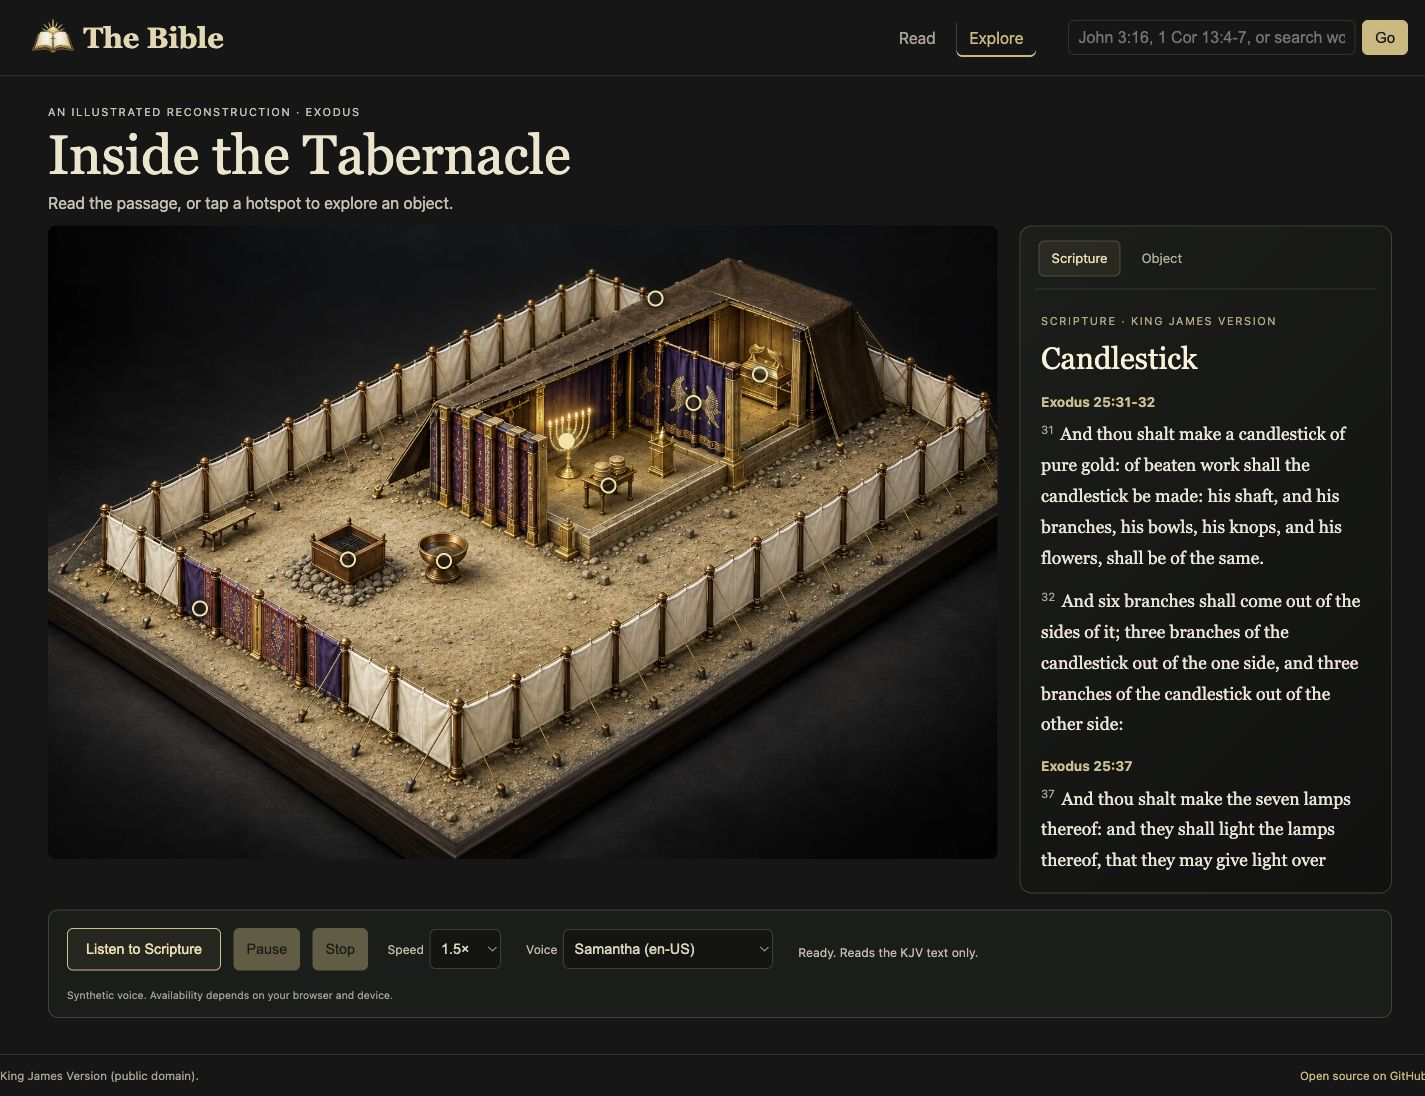
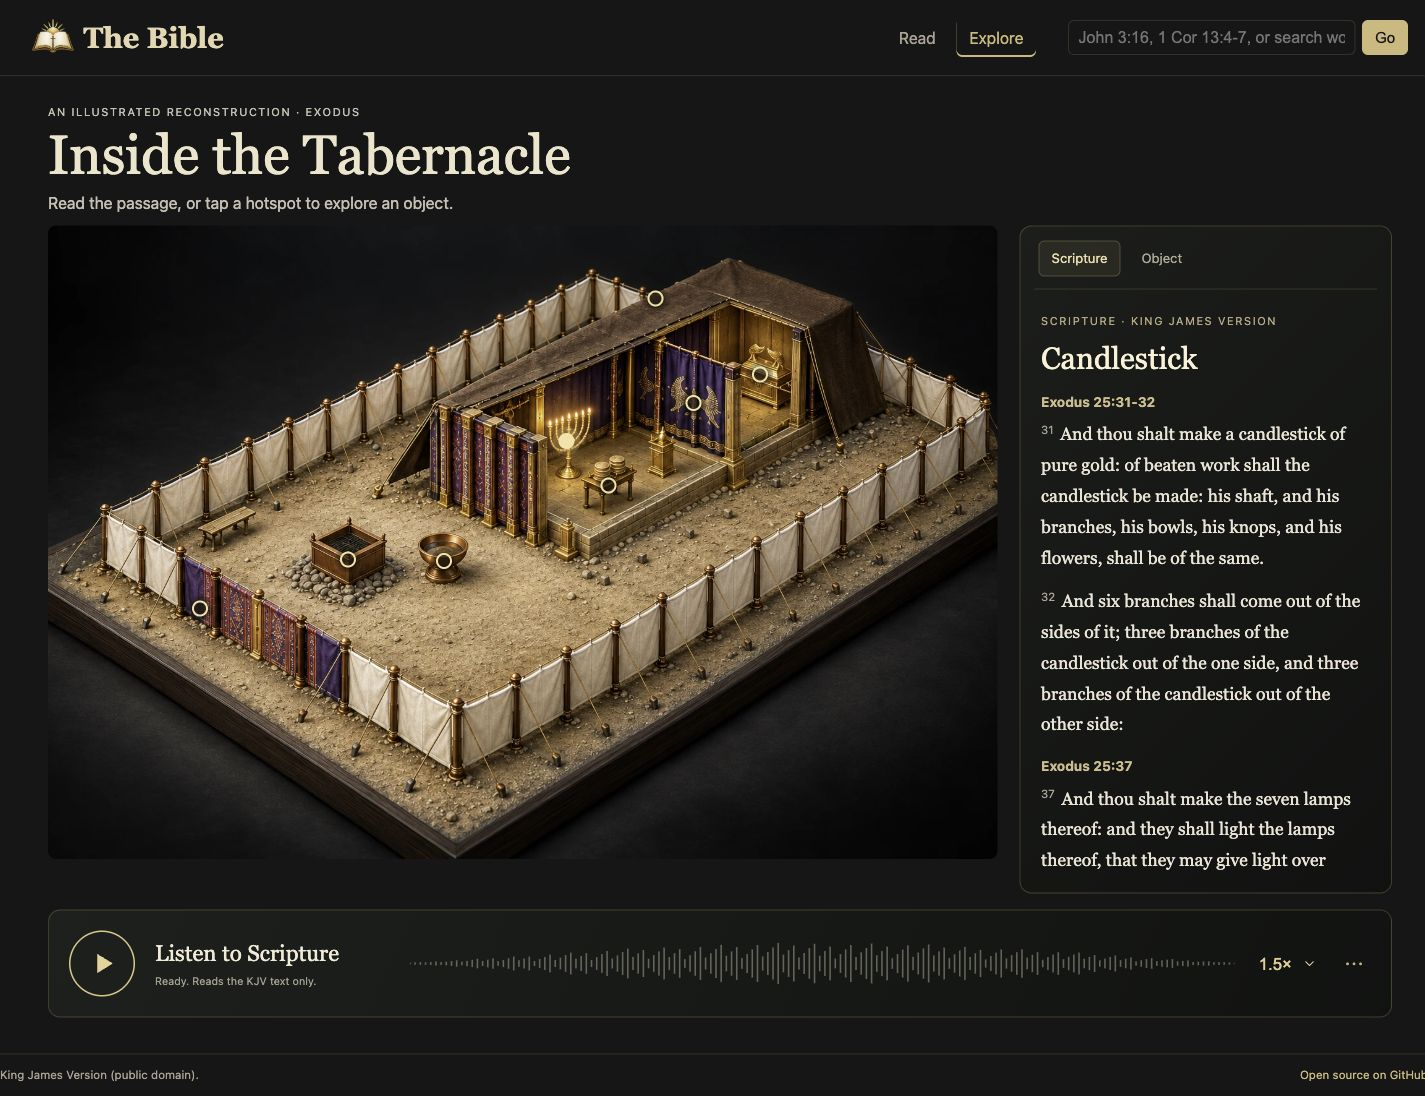
Match Explore read-aloud bar to circular waveform player concept

diff --git a/web/style.css b/web/style.css
@@ -118,3 +118,21 @@ body:has(.illustrated-explore) header .wrap{width:calc(100% - 64px)}
 @media(max-width:760px){.study-panel{display:flex;height:520px;min-height:0}.panel-title h2{font-size:1.7rem}.scripture-panel .scripture{font-size:1.08rem}.object-panel .object-preview{height:160px}.panel-view{padding:0 4px 6px}}
 
 .panel-view:focus-visible{outline:1px solid #d6b879;outline-offset:-1px;border-radius:3px}
+
+/* Concept-matched read-aloud bar; waveform is a decorative playback indicator. */
+.scripture-player{display:flex;align-items:center;gap:20px;width:100%;min-height:108px;padding:16px 20px;border:1px solid #b59a624d;border-radius:12px;background:linear-gradient(115deg,#1c201c,#101311);color:#f0dfbc}
+.scripture-player .player-toggle{display:grid;place-items:center;flex:0 0 66px;width:66px;height:66px;padding:0;border-radius:50%;border:1.5px solid #e5c785;background:transparent;color:#efd292;cursor:pointer}
+.player-toggle svg{width:29px;height:29px;fill:currentColor}.player-pause-icon{display:none}
+[data-audio-state=reading] .player-play-icon{display:none}[data-audio-state=reading] .player-pause-icon{display:block}
+.player-toggle:hover{background:#d5b57318;box-shadow:0 0 20px #d8af4e15}.player-toggle:focus-visible{outline:2px solid #ffe3a2;outline-offset:5px}.player-toggle:disabled{opacity:.5;cursor:default}
+.player-copy{flex:0 1 235px;min-width:0}.player-title{display:block;font:1.4rem/1.25 Georgia,'Times New Roman',serif;white-space:nowrap;color:#f5ead5}
+.scripture-player [data-audio-status]{font-size:.67rem;line-height:1.35;color:#a79f8e;margin:.4rem 0 0;min-height:1.35em}
+.player-wave{flex:1;min-width:50px;height:56px;overflow:hidden;opacity:.55}.player-wave svg{display:block;width:100%;height:100%;stroke:#aaa28e;stroke-width:1.5}
+[data-audio-state=reading] .player-wave{opacity:1}[data-audio-state=reading] .player-wave svg{stroke:#dfc182}
+.player-speed select{border:0;border-radius:4px;background:transparent;color:#ebcc8e;font-size:1.05rem;padding:7px 0;cursor:pointer;max-width:85px}
+.player-speed select option{background:#1b1e1b;color:#eee5d5}
+.player-options{position:relative;flex:none}.player-options summary{list-style:none;cursor:pointer;color:#c8ae78;font-size:1.3rem;padding:7px;border-radius:4px}.player-options summary::-webkit-details-marker{display:none}.player-options summary:focus-visible{outline:1px solid #e5c785}
+.player-settings{position:absolute;z-index:5;right:0;bottom:calc(100% + 15px);width:270px;max-width:calc(100vw - 60px);padding:16px;background:#1c201b;border:1px solid #b59a6277;border-radius:8px;box-shadow:0 8px 30px #0008;font-size:.85rem}
+.player-settings label{display:flex;flex-direction:column;gap:6px}.player-settings select{width:100%;padding:8px;background:#101310;color:#e7d5ae;border:1px solid #b59a6255;border-radius:5px}.player-settings button{margin:12px 0;background:transparent;color:#e7d5ae;border:1px solid #b59a6266}.player-settings small{display:block;color:#aaa18e;line-height:1.4}.player-settings button:disabled{opacity:.4;cursor:default}
+@media(max-width:760px){.scripture-player{gap:12px;min-height:98px;padding:14px 12px}.scripture-player .player-toggle{width:48px;height:48px;flex-basis:48px}.player-toggle svg{width:22px;height:22px}.player-copy{flex:1;min-width:0}.player-title{font-size:1.05rem;white-space:normal}.player-wave{display:none}.player-speed select{font-size:.85rem;max-width:65px}.player-options summary{padding:3px}.scripture-player [data-audio-status]{font-size:.63rem}}
+@media(max-width:760px){.scripture-player{gap:8px}.player-title{font-size:1rem}}

diff --git a/web/experience.js b/web/experience.js
@@ -12,6 +12,7 @@ export function initExperience(root = document) {
   const controls = root.querySelector('[data-read-aloud]');
   let stop = () => {};
   if (controls) {
+    const compact = controls.hasAttribute('data-audio-compact');
     const synth = window.speechSynthesis;
     const play = controls.querySelector('[data-audio-action="play"]');
     const pause = controls.querySelector('[data-audio-action="pause"]');
@@ -29,10 +30,16 @@ export function initExperience(root = document) {
     const setState = (state, message) => {
       controls.dataset.audioState = state;
       status.textContent = message;
-      pause.disabled = !['reading', 'paused'].includes(state);
+      if (pause) pause.disabled = !['reading', 'paused'].includes(state);
       stopButton.disabled = !['reading', 'paused', 'starting'].includes(state);
-      play.textContent = state === 'paused' ? 'Resume' : 'Listen to Scripture';
-      pause.textContent = state === 'paused' ? 'Paused' : 'Pause';
+      if (compact) {
+        play.setAttribute('aria-label', state === 'reading' ? 'Pause Scripture' : state === 'paused' ? 'Resume Scripture' : 'Listen to Scripture');
+        play.disabled = state === 'starting' || state === 'unavailable';
+        controls.querySelector('.player-title').textContent = state === 'paused' ? 'Scripture paused' : state === 'reading' ? 'Reading Scripture' : 'Listen to Scripture';
+      } else {
+        play.textContent = state === 'paused' ? 'Resume' : 'Listen to Scripture';
+        pause.textContent = state === 'paused' ? 'Paused' : 'Pause';
+      }
     };
     const clearHighlight = () => nodes.forEach(node => node.classList.remove('is-speaking'));
     stop = (message = 'Stopped.') => {
@@ -109,6 +116,11 @@ export function initExperience(root = document) {
         synth.speak(utterance);
       };
       on(play, 'click', () => {
+        if (compact && controls.dataset.audioState === 'reading') {
+          synth.pause();
+          if (synth.paused) setState('paused', 'Paused. Press Resume to continue.');
+          return;
+        }
         if (controls.dataset.audioState === 'paused' && current) {
           synth.resume();
           if (!synth.paused) setState('reading', `Reading verse ${nodes[index].dataset.verse || index + 1} · ${index + 1} of ${verses.length}.`);

diff --git a/src/tabernacle.rs b/src/tabernacle.rs
@@ -128,6 +128,28 @@ pub(super) fn listen_controls(reference: &str) -> String {
     )
 }
 
+fn scene_listen_controls(reference: &str) -> String {
+    // Decorative waveform silhouette, not sampled audio or a seek timeline.
+    let mut wave = String::new();
+    for i in 0..160 {
+        let x = i as f64 / 159.0;
+        let envelope = (std::f64::consts::PI * x).sin().powf(1.2);
+        let texture = ((i * 37 + 11) % 29) as f64 / 29.0;
+        let height = 2.0 + envelope * (9.0 + texture * 38.0);
+        wave.push_str(&format!(
+            "<line x1=\"{}\" x2=\"{}\" y1=\"{:.1}\" y2=\"{:.1}\"/>",
+            i * 5,
+            i * 5,
+            32.0 - height / 2.0,
+            32.0 + height / 2.0
+        ));
+    }
+    format!(
+        r#"<div class="scripture-player" data-read-aloud data-audio-compact data-reference="{}"><button class="player-toggle" type="button" data-audio-action="play" aria-label="Listen to Scripture"><svg viewBox="0 0 24 24" aria-hidden="true"><path class="player-play-icon" d="M8 4 21 12 8 20Z"/><path class="player-pause-icon" d="M7 5h4v14H7zm7 0h4v14h-4z"/></svg></button><div class="player-copy"><span class="player-title">Listen to Scripture</span><span data-audio-status role="status" aria-live="polite">Ready. Reads the KJV text only.</span></div><div class="player-wave" aria-hidden="true"><svg viewBox="0 0 795 64" preserveAspectRatio="none">{wave}</svg></div><label class="player-speed"><select data-audio-rate aria-label="Speech speed"><option value="0.75">0.75×</option><option value="1" selected>1×</option><option value="1.25">1.25×</option><option value="1.5">1.5×</option></select></label><details class="player-options"><summary aria-label="Playback options">⋯</summary><div class="player-settings"><label>Voice <select data-audio-voice aria-label="Voice"><option value="">Device default</option></select></label><button type="button" data-audio-action="stop">Stop reading</button><small>Synthetic device voice. Reads Scripture only.</small></div></details></div>"#,
+        esc(reference)
+    )
+}
+
 fn illustration(selected: &str, client: bool) -> String {
     let positions = [
         ("courtyard", 16.0, 60.5),
@@ -186,7 +208,7 @@ fn explore_body(selected: &str, object_view: bool, client: bool) -> String {
     body.push_str(&format!("</section><section class=\"panel-view object-panel\" aria-label=\"Object and explanation\" tabindex=\"0\"{}>",if object_view {""} else {hidden}));
     body.push_str(&detail_view(selected));
     body.push_str(&format!("<div class=\"object-description\"><p class=\"eyebrow\">Selected part</p><h2>{}</h2><p class=\"object-reference\">{}</p><section class=\"context-note\"><h3>Explanation</h3><p>{}</p></section><a class=\"open-passage\" href=\"{}\">Back to Scripture <span aria-hidden=\"true\">←</span></a><small class=\"reconstruction-note\">Artist’s reconstruction. Appearance and placement are illustrative.</small></div></section></article></div><div class=\"explore-audio\">",esc(part.name),esc(part.references[0]),esc(part.note),esc(&scripture_link)));
-    body.push_str(&listen_controls(&part.references.join("; ")));
+    body.push_str(&scene_listen_controls(&part.references.join("; ")));
     body.push_str("</div></section>");
     body
 }

diff --git a/README.md b/README.md
@@ -65,7 +65,7 @@ The scene is an AI-generated artistic reconstruction, not an archaeological mode
 
 Scripture is rendered verbatim from the embedded KJV corpus. **Explanation** is a separate, explicitly labeled section with passage references; it is not added to Scripture playback. The supporting references are listed in [the scene source notes](docs/tabernacle-sources.md).
 
-Chapter, passage, and Explore pages include **Listen to Scripture**, pause/resume, stop, speed, and voice controls. Speech uses the browser's Web Speech API and available device voices, so no API key is embedded or required. Voice availability and pronunciation depend on the browser/device. Playback starts only after a user action, highlights the current verse, and stops on navigation. Browsers without working speech support show an explicit unavailable/error message.
+Chapter, passage, and Explore pages include **Listen to Scripture**, pause/resume, stop, speed, and voice controls. Explore uses the concept’s circular play/pause button and waveform-styled bar; extra voice and stop controls sit under **Playback options**. The waveform is decorative, not sampled audio or a seekable timeline. Speech uses the browser's Web Speech API and available device voices, so no API key is embedded or required. Voice availability and pronunciation depend on the browser/device. Playback starts only after a user action, highlights the current verse, and stops on navigation. Browsers without working speech support show an explicit unavailable/error message.
 
 ## Data source
 
